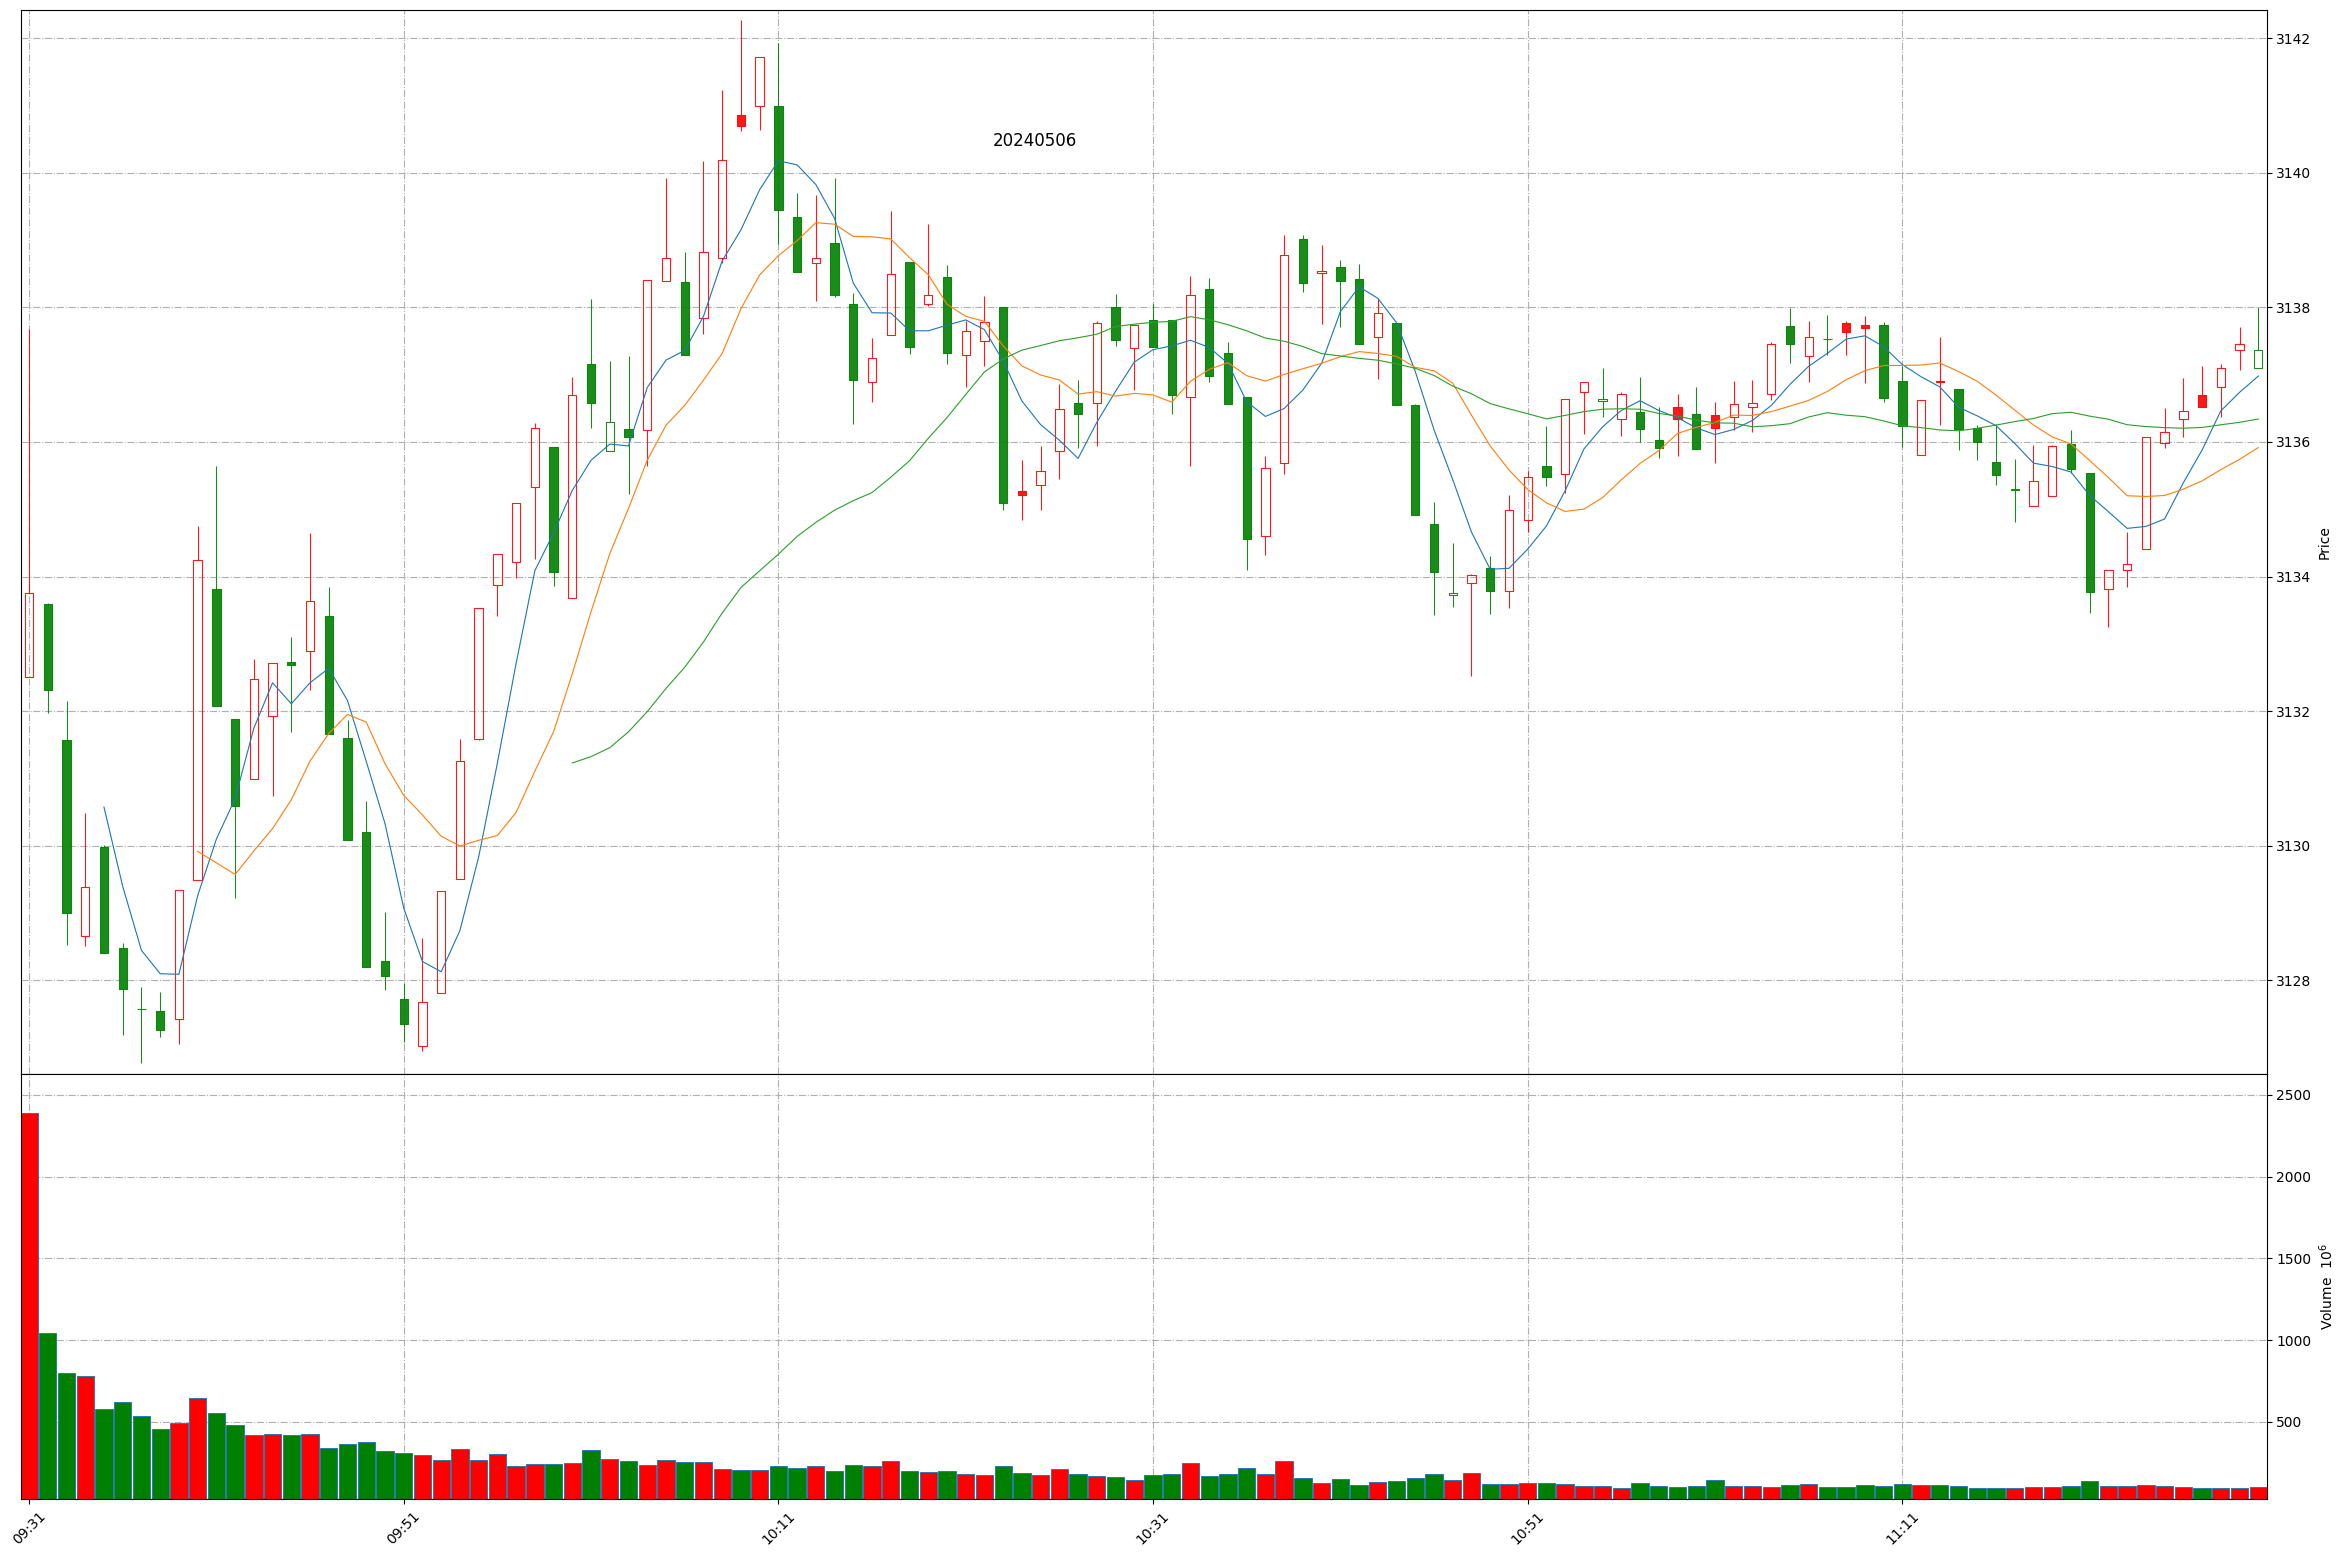
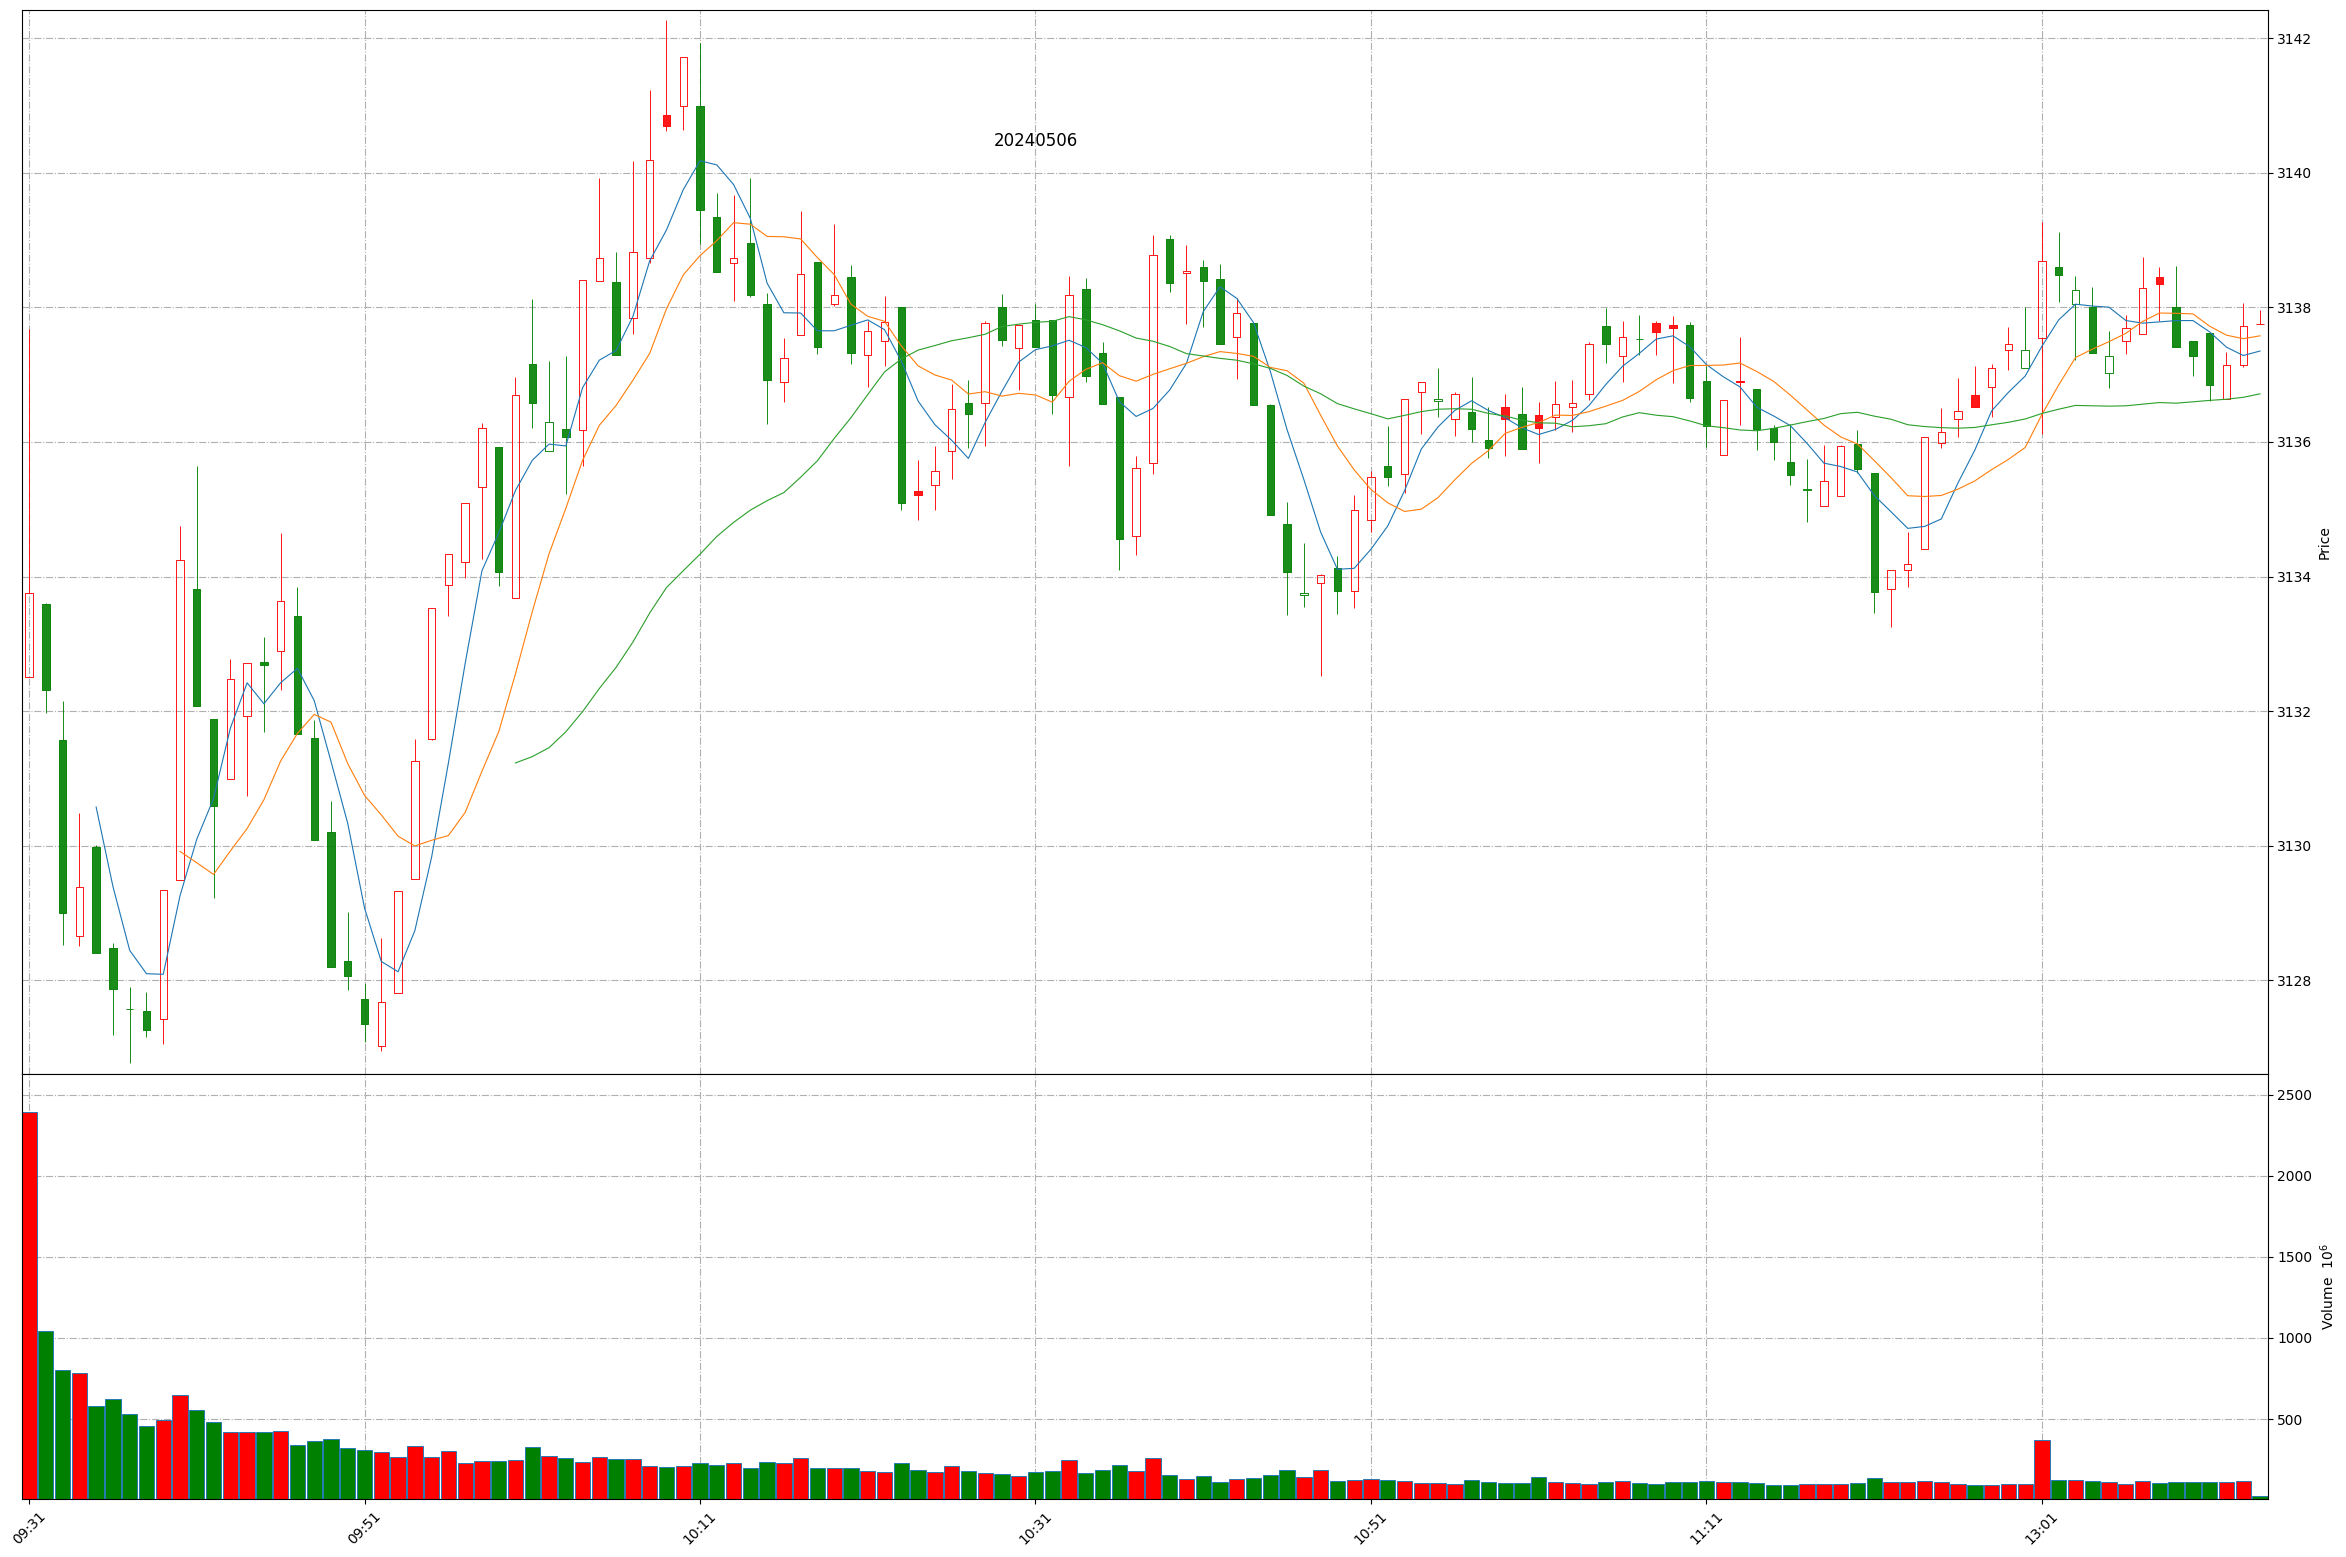
Github action update at 2024-05-06 13:13:27.

diff --git a/README.md b/README.md
@@ -1,11 +1,11 @@
 
 # Daily-A-share-market-quotes 每日 A 股指数（5min 更新）- 20240506
 
-### 上证指数 20240506 11:34
+### 上证指数 20240506 13:13
 ![](./fig/2024/5/20240506-sh000001.png)
 
-### 深证成指 20240506 11:34
+### 深证成指 20240506 13:13
 ![](./fig/2024/5/20240506-sz399001.png)
 
-### 北证50 20240506 11:34
+### 北证50 20240506 13:13
 ![](./fig/2024/5/20240506-bj899050.png)
